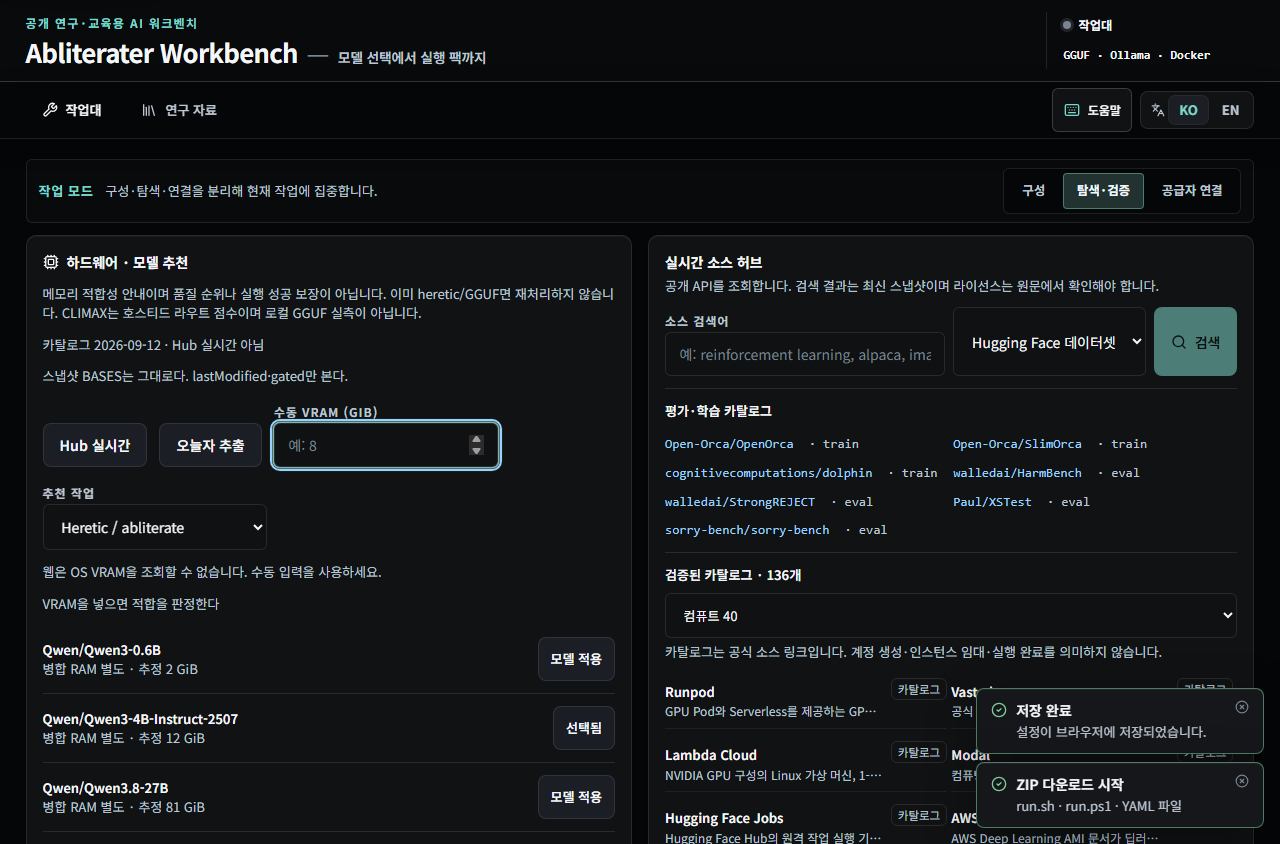
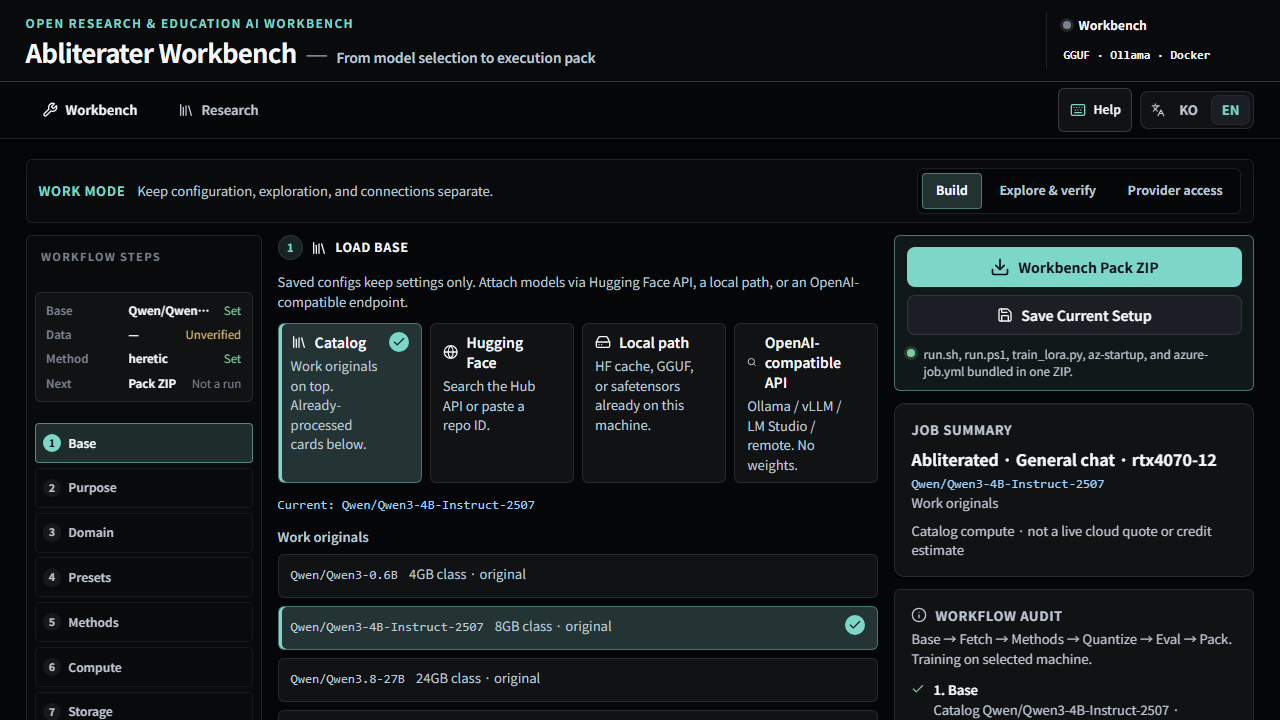
HF catalog pick fills owner/name; English workbench shot; gift vs collaboration.

diff --git a/src/components/ModelSource.tsx b/src/components/ModelSource.tsx
@@ -5,6 +5,7 @@ import { BASES, type StudioState } from "@/lib/studio";
 import {
   MODEL_SOURCES,
   baseVramGb,
+  hfRepoFromCatalog,
   isHfRepoId,
   modelSourceOf,
   normalizeHfRepo,
@@ -94,11 +95,14 @@ export function ModelSource({
   function setSource(id: ModelSourceId) {
     setS((prev) => {
       if (id === "hf") {
+        const seeded =
+          prev.hfRepo.trim() || hfRepoFromCatalog(prev.base) || normalizeHfRepo(prev.storeBaseUri || "");
         return {
           ...prev,
           modelSource: id,
           storeBase: "hf",
-          storeBaseUri: prev.hfRepo || prev.storeBaseUri,
+          hfRepo: seeded,
+          storeBaseUri: seeded || prev.storeBaseUri,
         };
       }
       if (id === "local") {
@@ -129,12 +133,14 @@ export function ModelSource({
       derived,
       gguf: /gguf/i.test(`${id} ${card?.name ?? ""}`),
     });
+    const repo = hfRepoFromCatalog(id);
     setS((prev) => ({
       ...prev,
       modelSource: "catalog",
       base: id,
       storeBase: "hf",
-      storeBaseUri: "",
+      storeBaseUri: repo,
+      hfRepo: repo,
       methods: reuse ? path.methods : prev.methods.length ? prev.methods : path.methods,
       outputs: reuse ? path.outputs : prev.outputs,
       purpose: reuse ? path.purpose : prev.purpose,
@@ -263,7 +269,28 @@ export function ModelSource({
             <button
               type="button"
               className="btn-secondary inline-flex min-h-11 items-center px-3 text-sm"
-              onClick={() => document.getElementById("hfRepo")?.focus()}
+              onClick={() => {
+                const el = document.getElementById("hfRepo") as HTMLInputElement | null;
+                el?.scrollIntoView({ block: "nearest" });
+                el?.focus();
+                void navigator.clipboard
+                  ?.readText?.()
+                  .then((text) => {
+                    const repo = normalizeHfRepo(text);
+                    if (!repo) return;
+                    setS((prev) => ({
+                      ...prev,
+                      modelSource: "hf",
+                      hfRepo: repo,
+                      storeBase: "hf",
+                      storeBaseUri: repo,
+                      base: "custom",
+                    }));
+                  })
+                  .catch(() => {
+                    /* focus only when the clipboard is blocked */
+                  });
+              }}
             >
               {t("ms_hf_empty_paste", locale)}
             </button>

diff --git a/src/components/Studio.tsx b/src/components/Studio.tsx
@@ -53,7 +53,7 @@ import { catalogIsReuse, classifyDerived, recommendPath } from "@/lib/size-bands
 import { DEFAULT_METHOD_PARAMS, type MethodParams } from "@/lib/runners";
 import { zipUtf8Files, ZIP_ERROR } from "@/lib/zip";
 import { type SearchSource, type SourceHit } from "@/lib/source-search";
-import { auditWorkflow, flowHasBlock, resolveBasePull } from "@/lib/model-source";
+import { auditWorkflow, flowHasBlock, hfRepoFromCatalog, resolveBasePull } from "@/lib/model-source";
 import { ModelSource } from "@/components/ModelSource";
 import { WorkflowAudit } from "@/components/WorkflowAudit";
 import { BenchRunner } from "@/components/BenchRunner";
@@ -1422,6 +1422,9 @@ export function Studio() {
                 base,
                 modelSource: "catalog",
                 baseVram: "",
+                hfRepo: hfRepoFromCatalog(base),
+                storeBase: "hf",
+                storeBaseUri: hfRepoFromCatalog(base),
                 methods: reuse ? path.methods : prev.methods,
                 outputs: reuse ? path.outputs : prev.outputs,
                 purpose: reuse ? path.purpose : prev.purpose,

diff --git a/src/components/ModelSource.ui.test.ts b/src/components/ModelSource.ui.test.ts
@@ -49,4 +49,14 @@ test("empty HF repo shows a block banner instead of painting BASE_MODEL", () => 
   assert.match(src, /ms_hf_empty_catalog/);
   assert.match(src, /ms_hf_empty_paste/);
   assert.match(src, /src === "hf" && !s\.hfRepo\.trim\(\)/);
+  assert.match(src, /hfRepoFromCatalog/);
+  assert.match(src, /clipboard/);
+});
+
+test("catalog pick writes the Hub owner/name into hfRepo", () => {
+  const src = readFileSync("src/components/ModelSource.tsx", "utf8");
+  assert.match(src, /hfRepo: repo/);
+  assert.match(src, /storeBaseUri: repo/);
+  const lib = readFileSync("src/lib/model-source.ts", "utf8");
+  assert.match(lib, /export function hfRepoFromCatalog/);
 });

diff --git a/src/lib/model-source.ts b/src/lib/model-source.ts
@@ -82,6 +82,13 @@ export function isHfRepoId(id: string): boolean {
   return /^[A-Za-z0-9._-]+\/[A-Za-z0-9._-]+(\/[A-Za-z0-9._-]+)*$/.test(id);
 }
 
+/** Catalog card `name` is the Hub id (owner/name). Empty if the card is not a repo. */
+export function hfRepoFromCatalog(baseId: string): string {
+  const card = BASES.find((b) => b.id === baseId);
+  const repo = normalizeHfRepo(card?.name ?? "");
+  return isHfRepoId(repo) ? repo : "";
+}
+
 export function baseVramGb(s: StudioState): number {
   const n = parseFloat(s.baseVram || "");
   if (Number.isFinite(n) && n > 0) return n;

diff --git a/src/lib/catalog-primary.test.ts b/src/lib/catalog-primary.test.ts
@@ -66,8 +66,11 @@ test("reuse catalog pick sets purpose from recommendPath", () => {
 
 test("document title is Abliterater not Unc / Ablit", () => {
   const src = readFileSync("src/routes/__root.tsx", "utf8");
+  const og = readFileSync("src/lib/og/site.json", "utf8");
   assert.match(src, /Abliterater/);
-  assert.doesNotMatch(src, /Unc \/ Ablit Workbench/);
+  assert.ok(!src.includes("Unc / Ablit"));
+  assert.match(og, /"title":\s*"Abliterater"/);
+  assert.ok(!og.includes("Unc / Ablit"));
 });
 
 test("KO heretic param labels are words, not raw flag names", () => {

diff --git a/SUPPORT.ko.md b/SUPPORT.ko.md
@@ -1,16 +1,16 @@
-# 후원 · 투자
+# 후원 · 협업 문의
 
-Abliterater는 **교육용** 작업대입니다. GENOX / Juno Andy Cheong이 거절 억제(abliteration)를 연구·방어할 수 있게 만들고, **불법 이용을 막는 대응**을 위해 **전 세계의 관심**을 구합니다. 관심만으로는 컴퓨트·시간과 다음 공개가 이어지지 않습니다.
+Abliterater는 **교육용** 작업대입니다. GENOX / Juno Andy Cheong이 거절 억제(abliteration)를 연구·방어할 수 있게 만들고, **불법 이용을 막는 대응**을 위해 **전 세계의 관심**을 구합니다.
 
-문을 두 개 열어 둡니다. 소프트웨어를 쓰려면 어느 쪽도 **필수가 아닙니다.**
+소프트웨어를 쓰려면 후원도, 메일도 **필수가 아닙니다.** 그래도 돕고 싶으시면 문을 두 개만 열어 둡니다.
 
 영어본: [SUPPORT.en.md](./SUPPORT.en.md).
 
 ---
 
-## 1. 후원 (기부)
+## 1. 작은 선물 (선택)
 
-자발적 선물입니다. 지분, 상품, 의결권이 생기지 않습니다. 교육 연구와 다음 공개를 이어 가는 비용으로 씁니다.
+이 작업이 도움이 되었고, 컴퓨트 한 줌을 보태고 싶으시면 선물을 받겠습니다. 지분, 상품, 의결권은 생기지 않습니다. 강요가 아닙니다.
 
 | 경로 | 값 |
 | --- | --- |
@@ -19,15 +19,15 @@ Abliterater는 **교육용** 작업대입니다. GENOX / Juno Andy Cheong이 거
 
 **BSC(BEP-20)만** 보내 주십시오. 다른 체인으로 보내면 복구할 수 없습니다.
 
-후원은 강요가 아닙니다. 보내 주시면 그 마음으로 계속 일하겠습니다.
+보내 주셔도 고맙고, 안 보내 주셔도 고맙습니다.
 
 ---
 
-## 2. 투자 (문의)
+## 2. 협업 문의
 
-GENOX(이 작업대를 만드는 회사)에 **투자 논의를 하고 싶다면** `support@genox.one`으로 소속과 의향을 적어 보내 주십시오.
+같이 일하고 싶으시면 — 연구, 컴퓨트, 문서, 옆에서 만들기 — `support@genox.one`으로 소속과 의향을 적어 보내 주십시오.
 
-이 페이지는 증권 공모가 아닙니다. 투자가 이뤄진다면 **별도 서면 계약**으로만 진행합니다. 후원 주소로 보낸 금액은 지분으로 바뀌지 않습니다.
+이 페이지는 증권 공모가 아닙니다. 나중에 상업·투자 이야기가 있다면 **별도 서면 계약**으로만 진행합니다. 선물 주소로 보낸 금액은 지분으로 바뀌지 않습니다.
 
 ---
 

diff --git a/SUPPORT.en.md b/SUPPORT.en.md
@@ -1,33 +1,33 @@
-# Sponsor or invest
+# Sponsor · collaboration
 
-Abliterater is an **educational** workbench. GENOX / Juno Andy Cheong builds it so researchers and defenders can study refusal-suppression (abliteration) and **counter illegal misuse**. That purpose needs **worldwide attention** — and it also needs compute, time, and the next public release.
+Abliterater is an **educational** workbench. GENOX / Juno Andy Cheong builds it so researchers and defenders can study refusal-suppression (abliteration) and **counter illegal misuse**. That purpose needs **worldwide attention**.
 
-Two doors. **Neither is required** to use the software.
+You do **not** have to pay, sponsor, or write to us to use the software. If you still want to help, two quiet doors:
 
 Korean: [SUPPORT.ko.md](./SUPPORT.ko.md).
 
 ---
 
-## 1. Sponsor (donation)
+## 1. A small gift (optional)
 
-A voluntary gift. It does not buy equity, a product, or a vote. It pays for continued educational work.
+If this work was useful and you would like to buy us a little compute time, a gift is welcome. It does **not** buy equity, a product, or a vote. It is not required.
 
 | Channel | Value |
 | --- | --- |
 | Binance ID | `110474712` |
 | BNB Smart Chain (BEP-20) | `0xB8c48E65D440fe7Ee0025ebD88Da3094272977F4` |
 
-Send **BEP-20 on BSC only**. Funds on the wrong chain cannot be recovered.
+Please send **BEP-20 on BSC only**. Funds on the wrong chain cannot be recovered.
 
-Sponsorship is not required. If you send some, we will keep working.
+Thank you if you send something. Thank you if you do not.
 
 ---
 
-## 2. Invest (inquiry)
+## 2. Collaboration inquiry
 
-If you want to **discuss investing in GENOX** — the company that builds this workbench — write to `support@genox.one` with who you are and what you have in mind.
+If you would like to **work together** — research, compute, documentation, or building next to us — write to `support@genox.one` with who you are and what you have in mind.
 
-This page is **not an offer to sell securities**. Any investment would be a **separate written agreement**. Money sent to the sponsorship address does not become equity.
+This page is **not an offer to sell securities**. Any later commercial or investment talk would be a **separate written agreement**. Money sent to the gift address does not become equity.
 
 ---
 

diff --git a/README.md b/README.md
@@ -249,7 +249,7 @@ Compute chips: `local-cuda`, `local-rocm`, `local-metal`, `local-cpu`. AGPL CLIs
 | [USER-GUIDE.en.md](./USER-GUIDE.en.md) | Install, chrome, workbench, pack ZIP, remaining OPEN **per ledger** (Korean: [USER-GUIDE.ko.md](./USER-GUIDE.ko.md)) |
 | [CONTRIBUTING.en.md](./CONTRIBUTING.en.md) | How to patch. Contribute with us if you accept the AUP |
 | [ACCEPTABLE-USE.en.md](./ACCEPTABLE-USE.en.md) | No third-party commercial / illegal / abusive use |
-| [SUPPORT.en.md](./SUPPORT.en.md) | Sponsor (donation) vs invest (inquiry) |
+| [SUPPORT.en.md](./SUPPORT.en.md) | Optional gift vs collaboration inquiry |
 | [SECURITY.md](./SECURITY.md) | How to report a vulnerability |
 | [LICENSE.md](./LICENSE.md) | AGPL-3.0-or-later body + additional terms |
 
@@ -369,11 +369,11 @@ Mirrored in `src/lib/runners.ts` and enforced by `pack.assert.test.ts` (stale SH
 | Apache-2.0 | refusal_direction, nanofatdog, model-unfetter, kimi-k3 | pin-call |
 | NONE | ricyoung | citation only |
 
-## Sponsor or invest
+## Sponsor · collaboration
 
-Two doors, neither required to use the software. Full text: [SUPPORT.en.md](./SUPPORT.en.md).
+You do not have to pay to use this software. Full text: [SUPPORT.en.md](./SUPPORT.en.md).
 
-**Sponsor (donation)** — a gift, not equity.
+**A small gift (optional)** — not equity. Thank you if you send something; thank you if you do not.
 
 | Channel | Value |
 | --- | --- |
@@ -382,7 +382,7 @@ Two doors, neither required to use the software. Full text: [SUPPORT.en.md](./SU
 
 BSC only. Wrong chain cannot be recovered.
 
-**Invest (inquiry)** — to discuss investing in GENOX, email `support@genox.one`. That is not a public offering of securities. Money sent to the sponsorship address does not become shares.
+**Collaboration inquiry** — if you would like to work together, email `support@genox.one`. That is not a public offering of securities. Money sent to the gift address does not become shares.
 
 ---
 

diff --git a/USER-GUIDE.en.md b/USER-GUIDE.en.md
@@ -52,7 +52,7 @@ Empty HF `owner/name` **blocks** the workflow. Connect keys are **not** required
 
 `npm run ledger:status`. Pick one row in [Still open](#still-open-per-ledger-never-sum). Evidence only. analog `npm test` ≠ close. [CONTRIBUTING.en.md](./CONTRIBUTING.en.md).
 
-Acceptable use (no third-party commercial / illegal / abusive use): [ACCEPTABLE-USE.en.md](./ACCEPTABLE-USE.en.md). Contributing: [CONTRIBUTING.en.md](./CONTRIBUTING.en.md). Sponsor or invest: [SUPPORT.en.md](./SUPPORT.en.md). Security reports: [SECURITY.md](./SECURITY.md).
+Acceptable use (no third-party commercial / illegal / abusive use): [ACCEPTABLE-USE.en.md](./ACCEPTABLE-USE.en.md). Contributing: [CONTRIBUTING.en.md](./CONTRIBUTING.en.md). Gift or collaboration: [SUPPORT.en.md](./SUPPORT.en.md). Security reports: [SECURITY.md](./SECURITY.md).
 
 ---
 
@@ -447,11 +447,11 @@ External: **E01** GPU, **E02** paid account, **E03** Authenticode+clean VM. This
 - Contribute with us: [CONTRIBUTING.en.md](./CONTRIBUTING.en.md) — patches, measurements, reviews. analog `npm test` ≠ table close.
 - License: [LICENSE.md](./LICENSE.md)
 
-## Sponsor or invest
+## Sponsor · collaboration
 
-Sponsorship and GENOX investment inquiry are **separate doors**. Full text: [SUPPORT.en.md](./SUPPORT.en.md).
+A small gift and a collaboration inquiry are **separate doors**. Neither is required. Full text: [SUPPORT.en.md](./SUPPORT.en.md).
 
-A donation is not equity. Investment talk is email only (`support@genox.one`). This page is not an offer of securities.
+A gift is not equity. If you would like to work together, email `support@genox.one`. This page is not an offer of securities.
 
 | Channel | Value |
 | --- | --- |

diff --git a/USER-GUIDE.ko.md b/USER-GUIDE.ko.md
@@ -52,7 +52,7 @@
 
 `npm run ledger:status`. [아직 열린 것](#아직-열린-것-원장별-분석-합산-금지)에서 한 칸. 증거만. analog `npm test` ≠ close. [CONTRIBUTING.ko.md](./CONTRIBUTING.ko.md).
 
-이용 제한(제3자 상업·불법·악용 금지): [ACCEPTABLE-USE.ko.md](./ACCEPTABLE-USE.ko.md). 기여: [CONTRIBUTING.ko.md](./CONTRIBUTING.ko.md). 후원·투자: [SUPPORT.ko.md](./SUPPORT.ko.md). 보안 신고: [SECURITY.md](./SECURITY.md).
+이용 제한(제3자 상업·불법·악용 금지): [ACCEPTABLE-USE.ko.md](./ACCEPTABLE-USE.ko.md). 기여: [CONTRIBUTING.ko.md](./CONTRIBUTING.ko.md). 후원·협업 문의: [SUPPORT.ko.md](./SUPPORT.ko.md). 보안 신고: [SECURITY.md](./SECURITY.md).
 
 ---
 
@@ -447,11 +447,11 @@ OPEN/IN_PROGRESS: **W01** prod 저장/탭, **W02** HF 키 경계, **W06** 로그
 - 같이 기여: [CONTRIBUTING.ko.md](./CONTRIBUTING.ko.md) — 패치·실측·리뷰. analog `npm test` ≠ 표 클로즈.
 - 라이선스: [LICENSE.md](./LICENSE.md)
 
-## 후원 · 투자
+## 후원 · 협업 문의
 
-자발적 **후원**과 GENOX **투자 문의**는 창구가 다릅니다. 전문: [SUPPORT.ko.md](./SUPPORT.ko.md).
+작은 선물과 **협업 문의**는 창구가 다릅니다. 어느 쪽도 필수가 아닙니다. 전문: [SUPPORT.ko.md](./SUPPORT.ko.md).
 
-후원은 지분이 아닙니다. 투자 논의는 `support@genox.one` 서면으로만. 이 페이지는 증권 공모가 아닙니다.
+선물은 지분이 아닙니다. 같이 일하고 싶으시면 `support@genox.one`. 이 페이지는 증권 공모가 아닙니다.
 
 | 경로 | 값 |
 | --- | --- |

diff --git a/README.de.md b/README.de.md
@@ -87,9 +87,9 @@ Keine Schlüssel, `.env` oder `docs/`-Dumps in git. AGPL-Tools nur pin-call.
 
 **Danke** an Autorinnen und Maintainer jedes Repos und Papers, das wir pin-callen oder zitieren. Kein AGPL/GPL-Vendor in `src/`. Tabellen: [USER-GUIDE.en.md](./USER-GUIDE.en.md#acknowledgments--repositories). p-e-w/heretic, elder-plinius/OBLITERATUS, andyrdt/refusal_direction, FailSpy, Goekdeniz-Guelmez, heterodoxin, wuwangzhang1216, AIAnytime, jwest33, josepha-mayo, nanofatdog, AUGMXNT, ggml-org/llama.cpp, jim-plus, NousResearch, ant-research, ricyoung (nur Zitat). Papers: Arditi et al. Akademische Jailbreak-Papers dienen **Abwehr und Verständnis**, nicht als Angriffsmanual.
 
-## Sponsoring · Investition
+## Sponsor · collaboration
 
-**Sponsor (donation)** ist ein Geschenk, kein Eigenkapital. Binance `110474712` / BSC `0xB8c48E65D440fe7Ee0025ebD88Da3094272977F4` (nur BSC). **Invest (inquiry)**: `support@genox.one`. Kein öffentliches Wertpapierangebot. [SUPPORT.en.md](./SUPPORT.en.md).
+**Sponsor (donation)** ist ein Geschenk, kein Eigenkapital. Binance `110474712` / BSC `0xB8c48E65D440fe7Ee0025ebD88Da3094272977F4` (nur BSC). **Collaboration inquiry**: `support@genox.one`. Kein öffentliches Wertpapierangebot. [SUPPORT.en.md](./SUPPORT.en.md).
 
 ---
 
